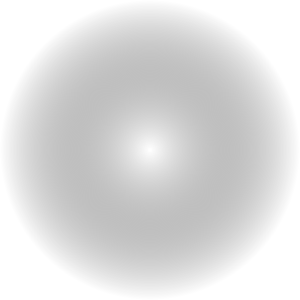
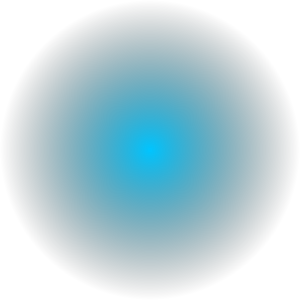
Timer lamps
The lamps now turn off after a specified number of seconds.  To indicate the lamps should stay on forever, leave the timer field blank or pass a negative number.  Also changed the lighting to blue.

diff --git a/lightingTest.py b/lightingTest.py
@@ -162,7 +162,7 @@ class Lighting:
 # Class to represent the stationary lamps
 class Lamp:
 
-	def __init__( self, center, image, lightImage, isLit = False ):
+	def __init__( self, center, image, lightImage, timer = -1, isLit = False ):
 		self.coors = center
 		self.lightImage = lightImage
 		self.image = image
@@ -175,6 +175,8 @@ class Lamp:
 		
 		self.isLit = isLit
 		self.recentFlip = False
+		self.timeLimit = timer * 30    #Convert from seconds to frames
+		self.counter = 0
 		
 	def turnOn( self ):
 		self.isLit = True
@@ -183,13 +185,17 @@ class Lamp:
 		self.isLit = False
 	
 	def checkStatus( self, collisionRect ):
-		if collisionRect.colliderect( self.imageRect ) and self.recentFlip == False:
-			self.isLit = not self.isLit
-			self.recentFlip = True
-			if self.isLit == False:
+		# If the rectangles collide and the lamp has not recently been lit
+		if collisionRect.colliderect( self.imageRect ):
+			self.isLit = True
+			self.counter = 0
+		elif self.isLit and self.timeLimit >= 0:
+			if self.counter >= self.timeLimit:
+				self.counter = 0
+				self.isLit = False
 				screen.fill( (0,0,0), self.lightRect  )
-		if collisionRect.colliderect( self.imageRect ) == False and self.recentFlip:
-			self.recentFlip = False
+			else:
+				self.counter += 1
 		
 # Class to represent the playable character
 class Player:
@@ -237,7 +243,7 @@ player = Player( broom, broomRect, broomActiveRect, lightActiveRect )
 lighting = Lighting()
 
 # Create a list of lamp object
-lampList = [ Lamp( (150,300), lampImage, lightAlpha, False ), Lamp( (150,150), lampImage, lightAlpha, True ) ]
+lampList = [ Lamp( (150,300), lampImage, lightAlpha ), Lamp( (150,150), lampImage, lightAlpha, -5, False ) ]
 
 ####################### Set up the spiders #####################
 
